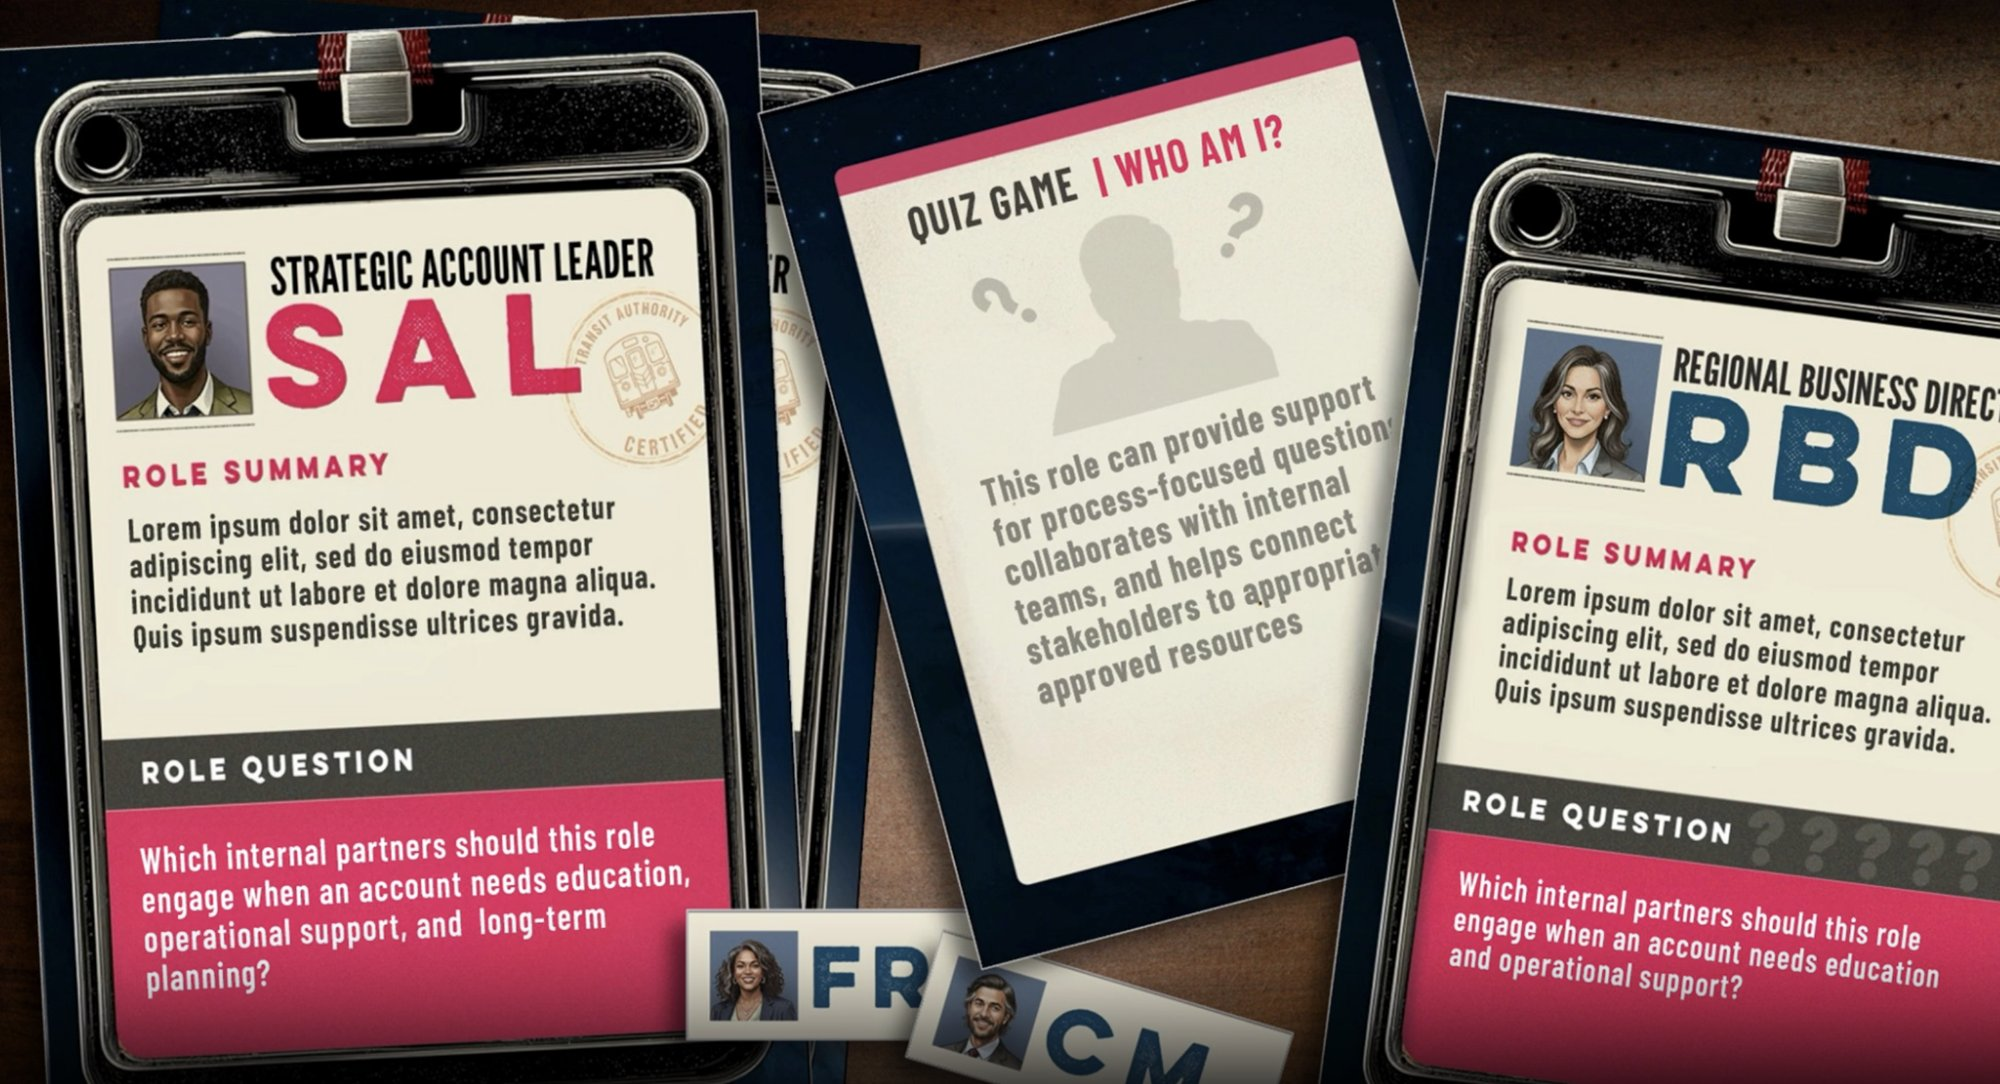
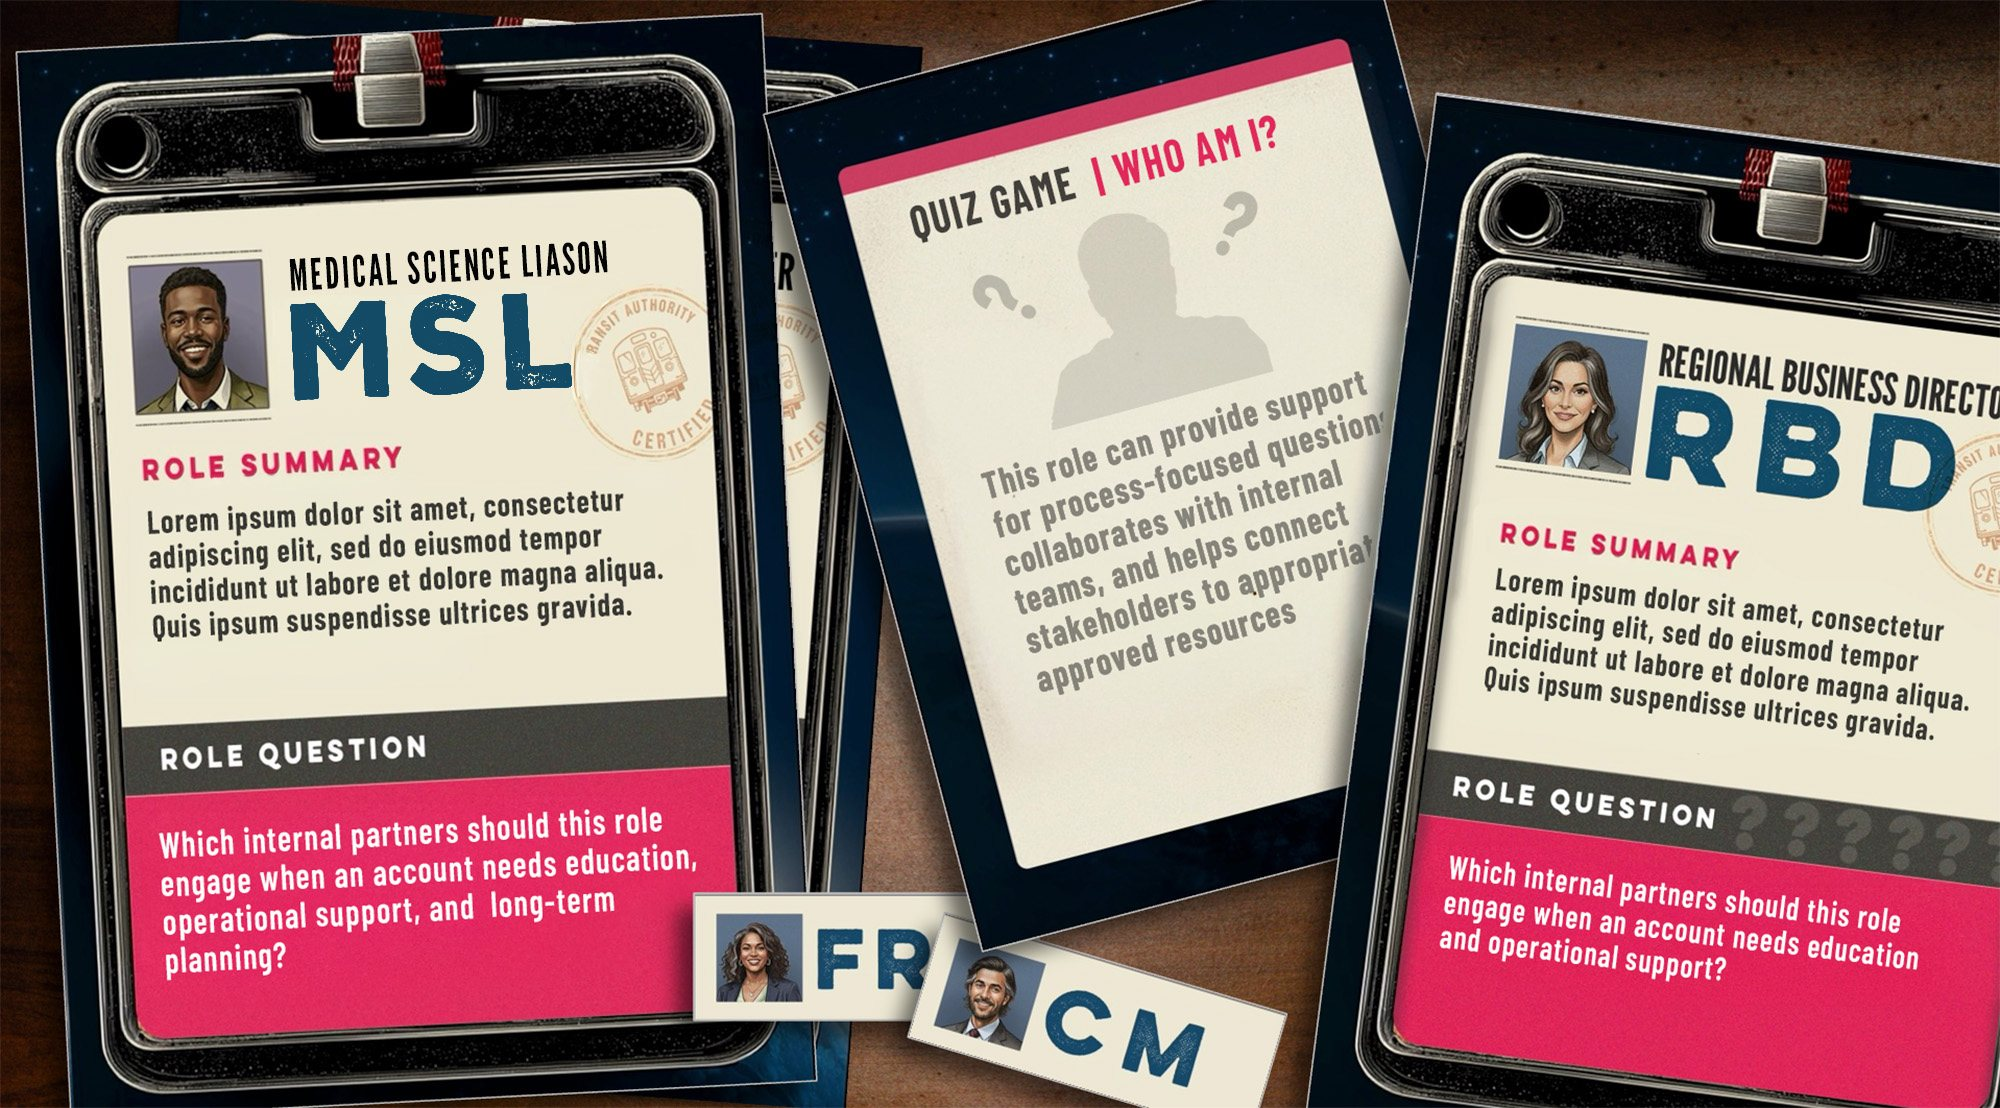
New image for the Game Cards tile
Claude-Session: https://claude.ai/code/session_018UBqbQGtj4JCJvXUh26TBn

diff --git a/index.html b/index.html
@@ -206,7 +206,7 @@
       <figure class="mtile m-map"><img src="images/activity-workmat.jpg" alt="A large printed activity workmat that teams work on at their table" width="2000" height="739"><button class="mtile-info" type="button" aria-label="About: Activity workmat" aria-haspopup="dialog"><svg viewBox="0 0 10 10" aria-hidden="true"><circle cx="5" cy="1.6" r="1.05" fill="currentColor"/><path d="M5 4.2v4.6" stroke="currentColor" stroke-width="1.7" stroke-linecap="round"/></svg></button><figcaption>Activity workmat</figcaption><p class="mtile-desc" hidden>The board each team plays on. It lays out the account, the functions and the stakeholders, and gives the team one place to build its picture as new intel comes in.</p></figure>
       <figure class="mtile m-video"><img src="images/scenario-video-still.jpg" alt="Still from a scenario video: a physician character at her desk" width="2000" height="1127"><button class="mtile-info" type="button" aria-label="About: Scenario video" aria-haspopup="dialog"><svg viewBox="0 0 10 10" aria-hidden="true"><circle cx="5" cy="1.6" r="1.05" fill="currentColor"/><path d="M5 4.2v4.6" stroke="currentColor" stroke-width="1.7" stroke-linecap="round"/></svg></button><figcaption>Scenario video</figcaption><p class="mtile-desc" hidden>Short character-led videos open each round. They show who the stakeholder is, what just changed and what the team has to decide next.</p></figure>
       <figure class="mtile m-board"><img src="images/live-leaderboard.jpg" alt="Live leaderboard on a big screen showing team standings" width="2000" height="1121"><button class="mtile-info" type="button" aria-label="About: Live leaderboard" aria-haspopup="dialog"><svg viewBox="0 0 10 10" aria-hidden="true"><circle cx="5" cy="1.6" r="1.05" fill="currentColor"/><path d="M5 4.2v4.6" stroke="currentColor" stroke-width="1.7" stroke-linecap="round"/></svg></button><figcaption>Live leaderboard</figcaption><p class="mtile-desc" hidden>Big-screen standings that update round by round. Scores come from the rubric, so every team can see how its decisions are landing.</p></figure>
-      <figure class="mtile m-cards"><img src="images/game-cards.jpg" alt="Custom game cards, including stakeholder role cards" width="2000" height="1084"><button class="mtile-info" type="button" aria-label="About: Game cards" aria-haspopup="dialog"><svg viewBox="0 0 10 10" aria-hidden="true"><circle cx="5" cy="1.6" r="1.05" fill="currentColor"/><path d="M5 4.2v4.6" stroke="currentColor" stroke-width="1.7" stroke-linecap="round"/></svg></button><figcaption>Game cards</figcaption><p class="mtile-desc" hidden>Role cards and quiz cards written for the brand and the account. Teams use them to identify stakeholders, ask sharper questions and unlock intel.</p></figure>
+      <figure class="mtile m-cards"><img src="images/game-cards.jpg" alt="Custom game cards: stakeholder role badges and a Who Am I? quiz card" width="2000" height="1108"><button class="mtile-info" type="button" aria-label="About: Game cards" aria-haspopup="dialog"><svg viewBox="0 0 10 10" aria-hidden="true"><circle cx="5" cy="1.6" r="1.05" fill="currentColor"/><path d="M5 4.2v4.6" stroke="currentColor" stroke-width="1.7" stroke-linecap="round"/></svg></button><figcaption>Game cards</figcaption><p class="mtile-desc" hidden>Role cards and quiz cards written for the brand and the account. Teams use them to identify stakeholders, ask sharper questions and unlock intel.</p></figure>
       <figure class="mtile m-barrier"><img src="images/instructions-video-still.jpg" alt="Still from an instructions video: a presenter on stage explains how the lab is played" width="2000" height="1159"><button class="mtile-info" type="button" aria-label="About: Instructions video" aria-haspopup="dialog"><svg viewBox="0 0 10 10" aria-hidden="true"><circle cx="5" cy="1.6" r="1.05" fill="currentColor"/><path d="M5 4.2v4.6" stroke="currentColor" stroke-width="1.7" stroke-linecap="round"/></svg></button><figcaption>Instructions video</figcaption><p class="mtile-desc" hidden>A presenter-led video that explains how the lab works, so every room starts with the same rules no matter who is facilitating.</p></figure>
       <figure class="mtile m-table"><img src="images/workmat-in-play.jpg" alt="A workmat in play, covered with cards and team notes" width="2000" height="1038"><button class="mtile-info" type="button" aria-label="About: Workmat in play" aria-haspopup="dialog"><svg viewBox="0 0 10 10" aria-hidden="true"><circle cx="5" cy="1.6" r="1.05" fill="currentColor"/><path d="M5 4.2v4.6" stroke="currentColor" stroke-width="1.7" stroke-linecap="round"/></svg></button><figcaption>Workmat in play</figcaption><p class="mtile-desc" hidden>Mid-round, the mat fills up with cards, notes and decisions. Facilitators can read each team's thinking at a glance and coach in the moment.</p></figure>
     </div>
